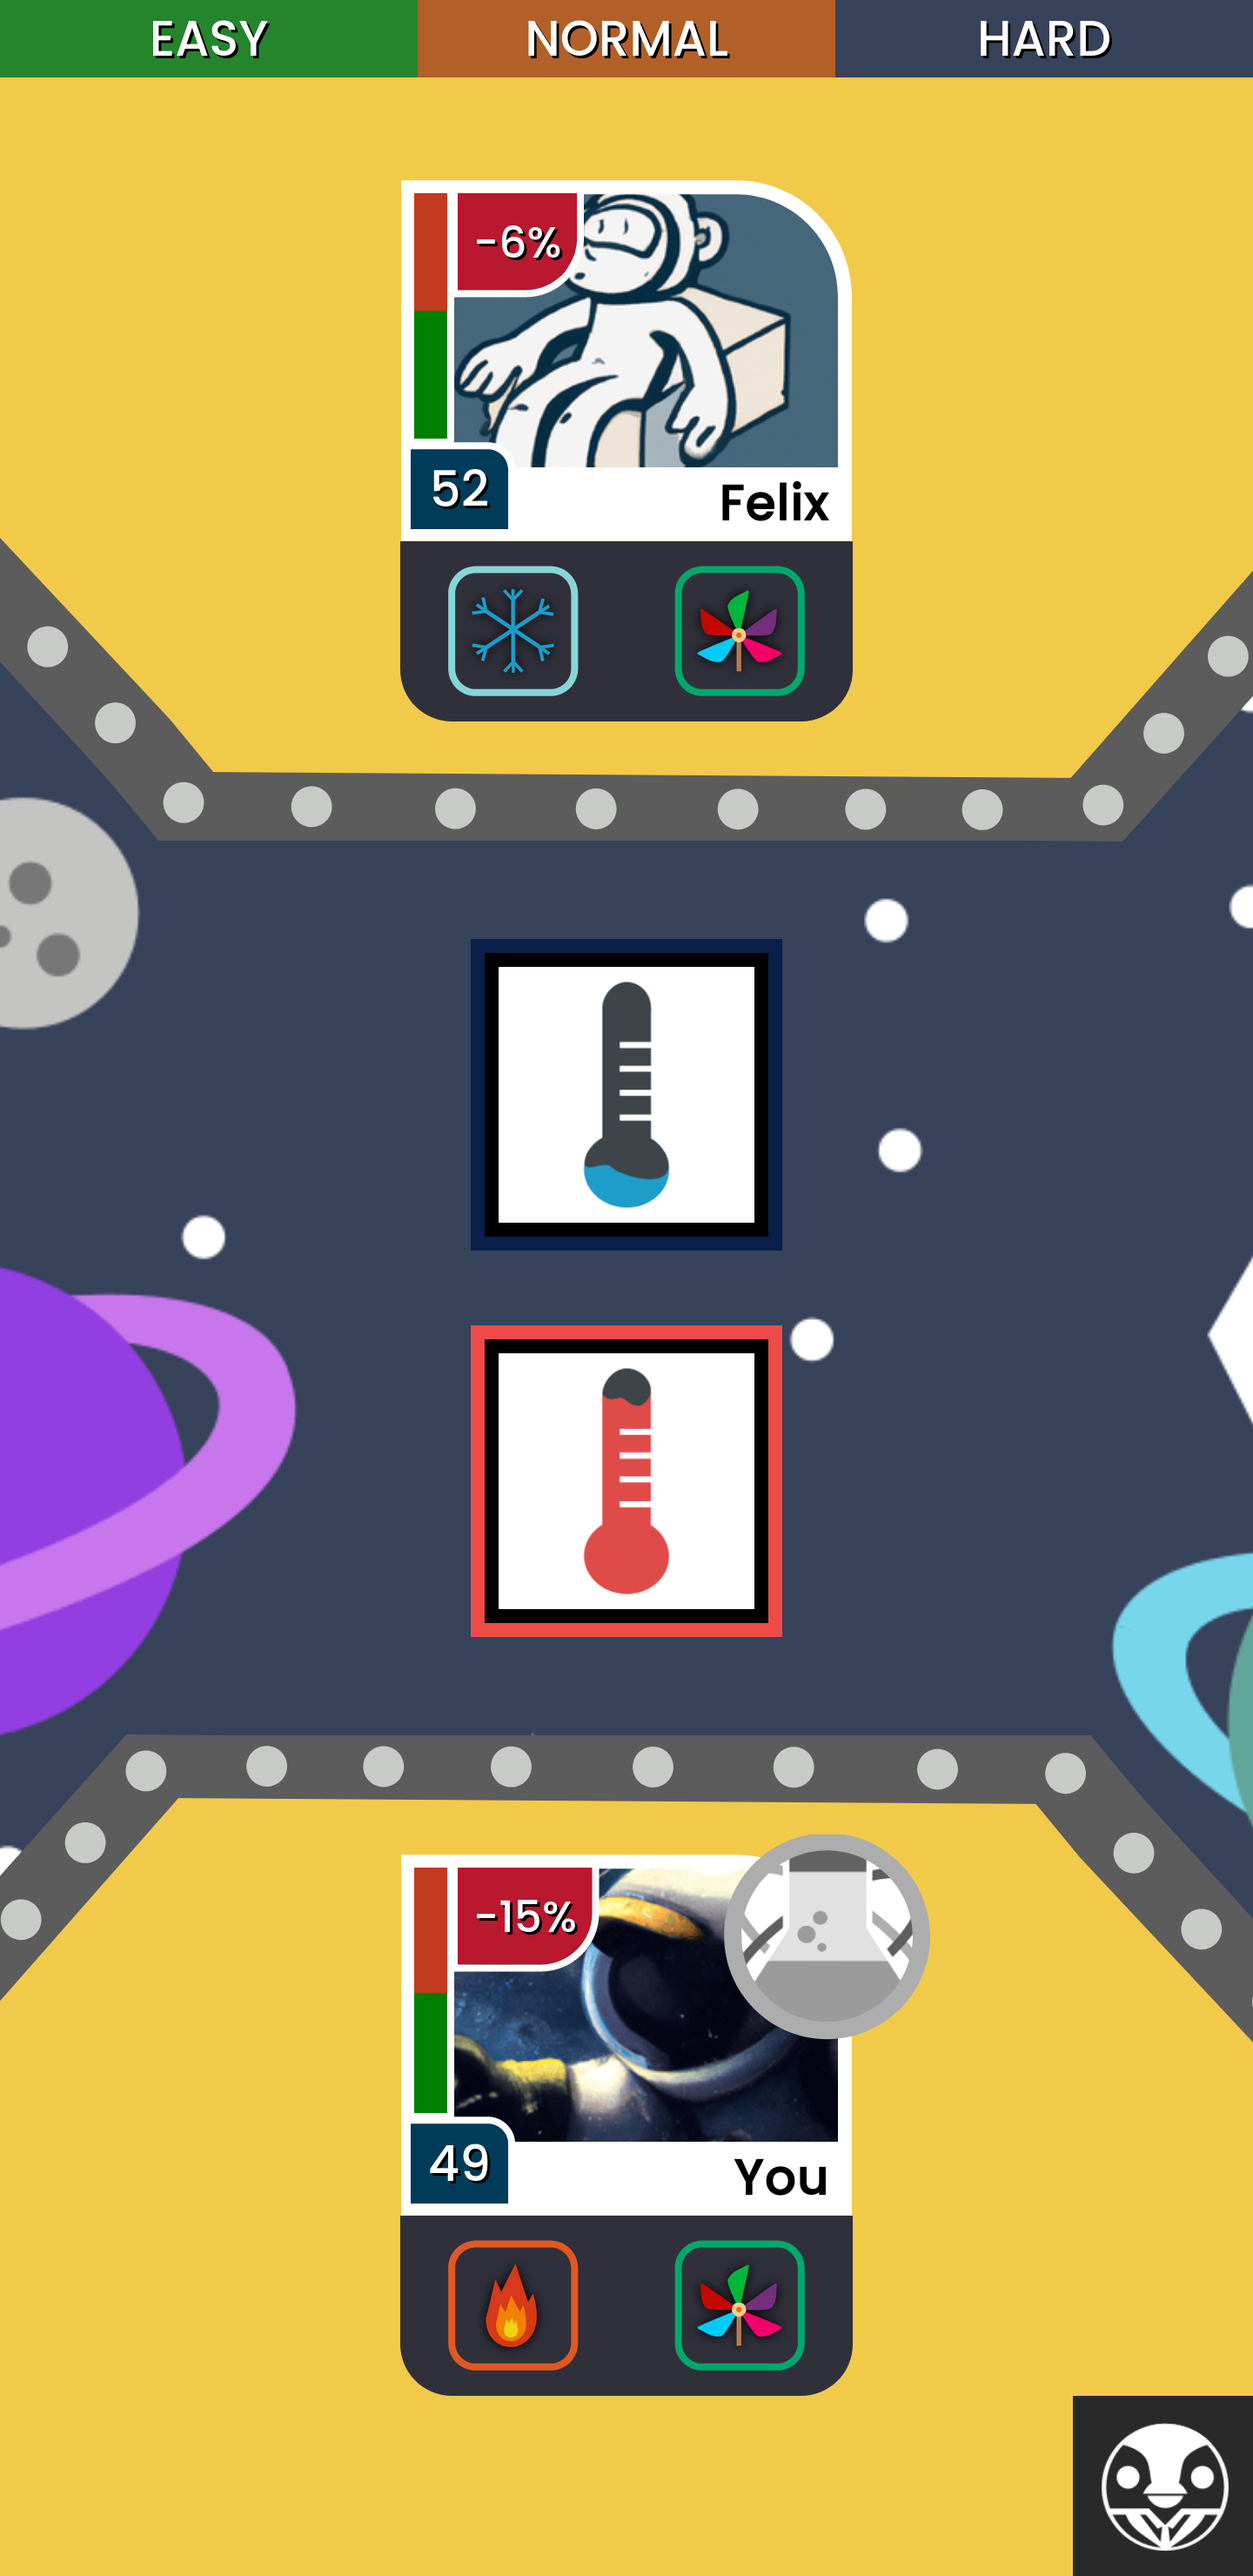
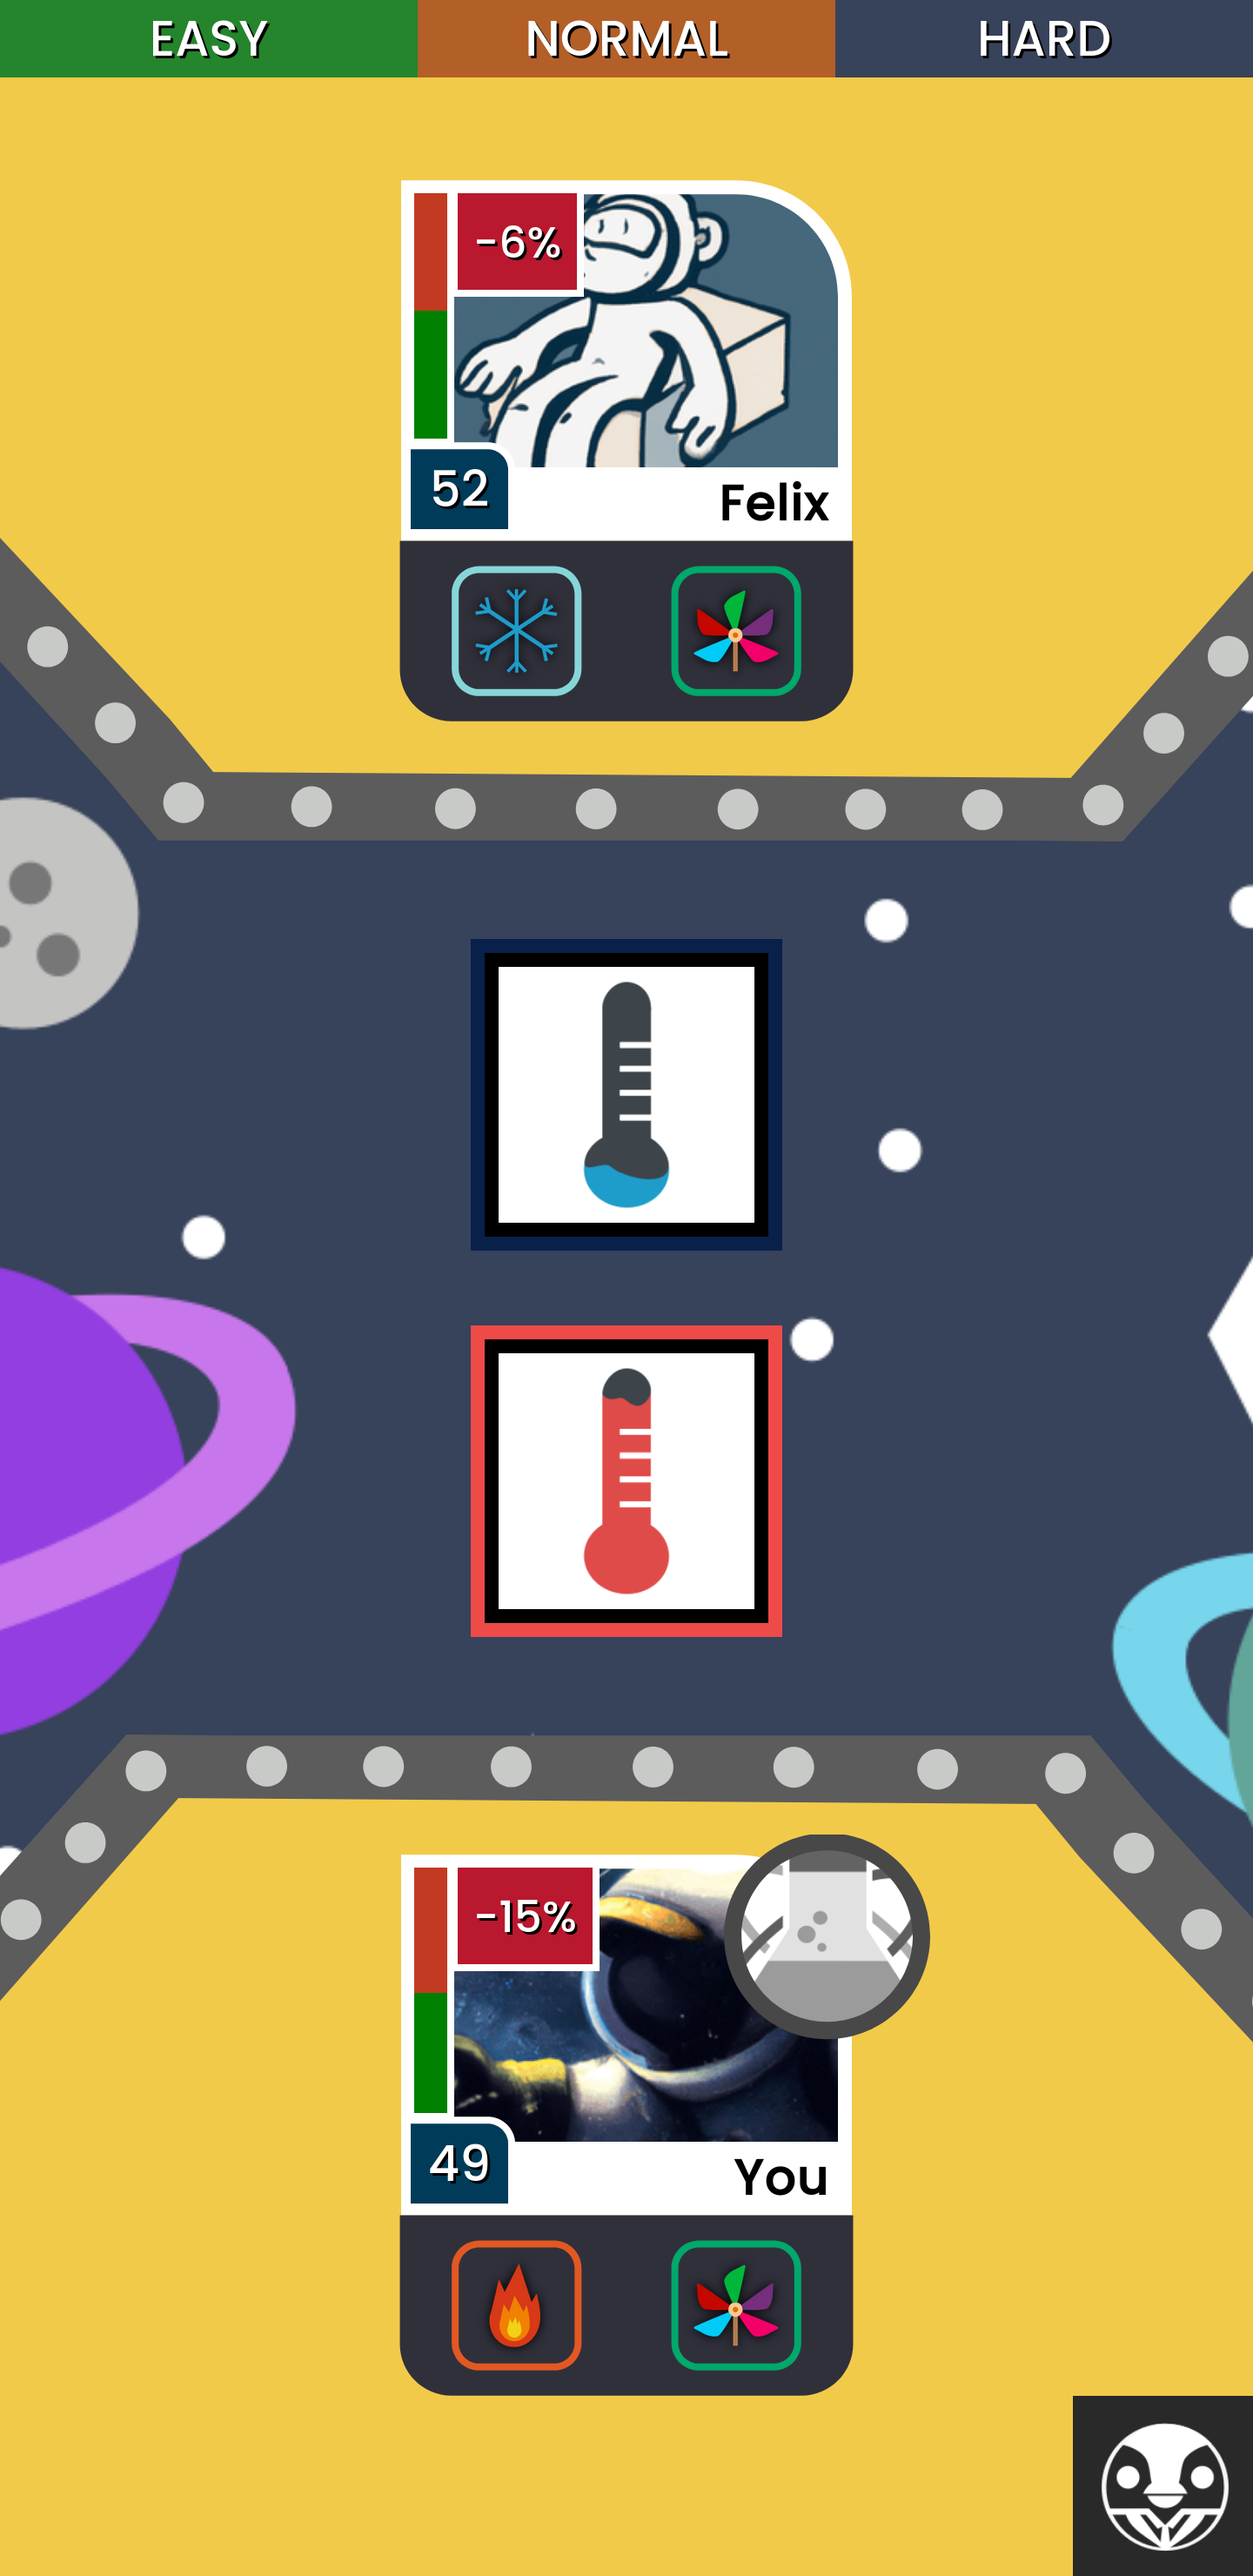
Update english screenshots

diff --git a/css/main.css b/css/main.css
@@ -56,7 +56,6 @@ img[src=""] {
 
 .background-space {
   background: url("../img/background/space.png") 0vh/180vh;
-  background-position: -30vh;
 }
 
 .background-grey {
@@ -173,7 +172,7 @@ img[src=""] {
 }
 
 .infinite {
-  /* animation: infiniteBackground 60s linear infinite; */
+  animation: infiniteBackground 60s linear infinite;
 }
 
 .text-white {
